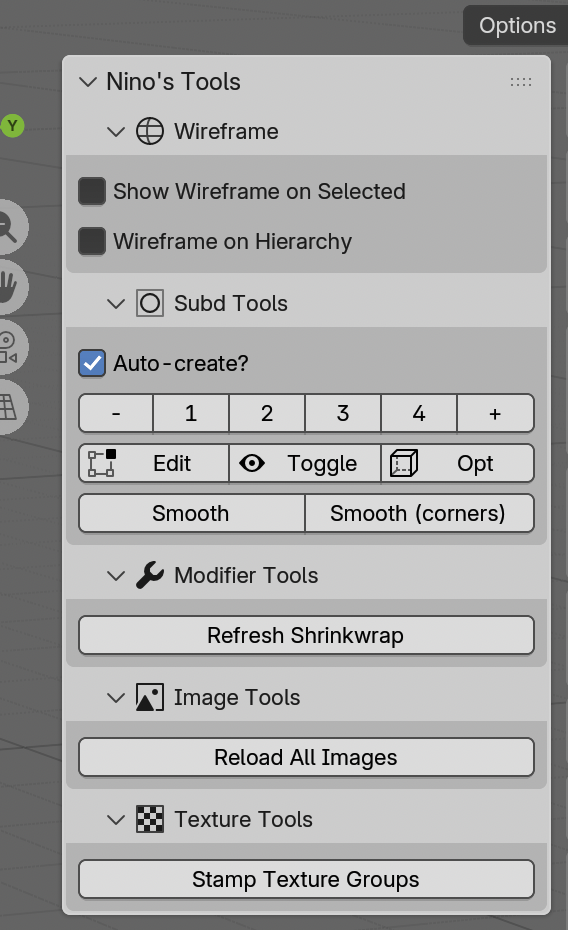
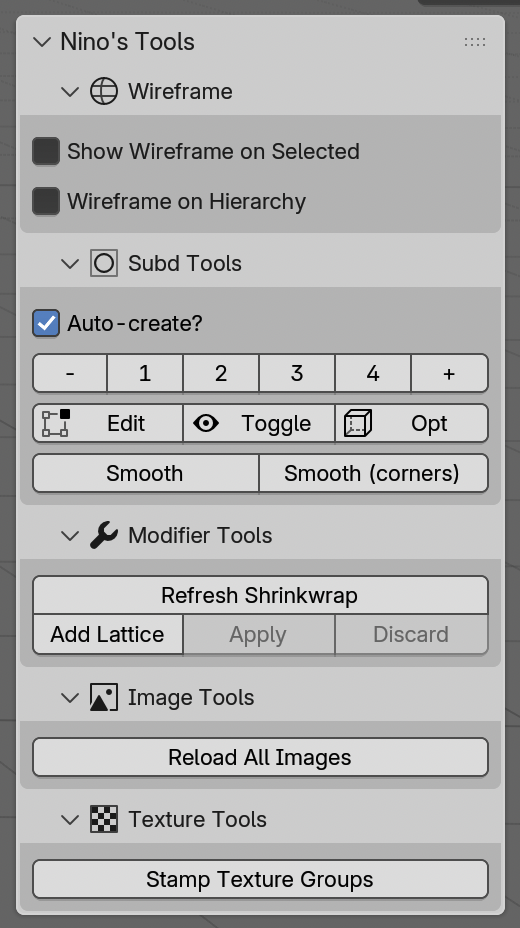
Update README with lattice tool docs and new screenshot

diff --git a/README.md b/README.md
@@ -19,6 +19,9 @@ A Blender addon with a collection of helpful modeling tools.
 
 ### Modifier Tools
 - Refresh shrinkwrap modifiers by duplicating and re-applying them
+- Lattice helper: quickly add a lattice deformer fitted to selected geometry, then apply or discard it
+  - Supports local, world, and 3D cursor orientation for the bounding box
+  - Adjust lattice divisions (U/V/W) directly from the redo panel
 
 ### Image Tools
 - Reload all external images in the current file
